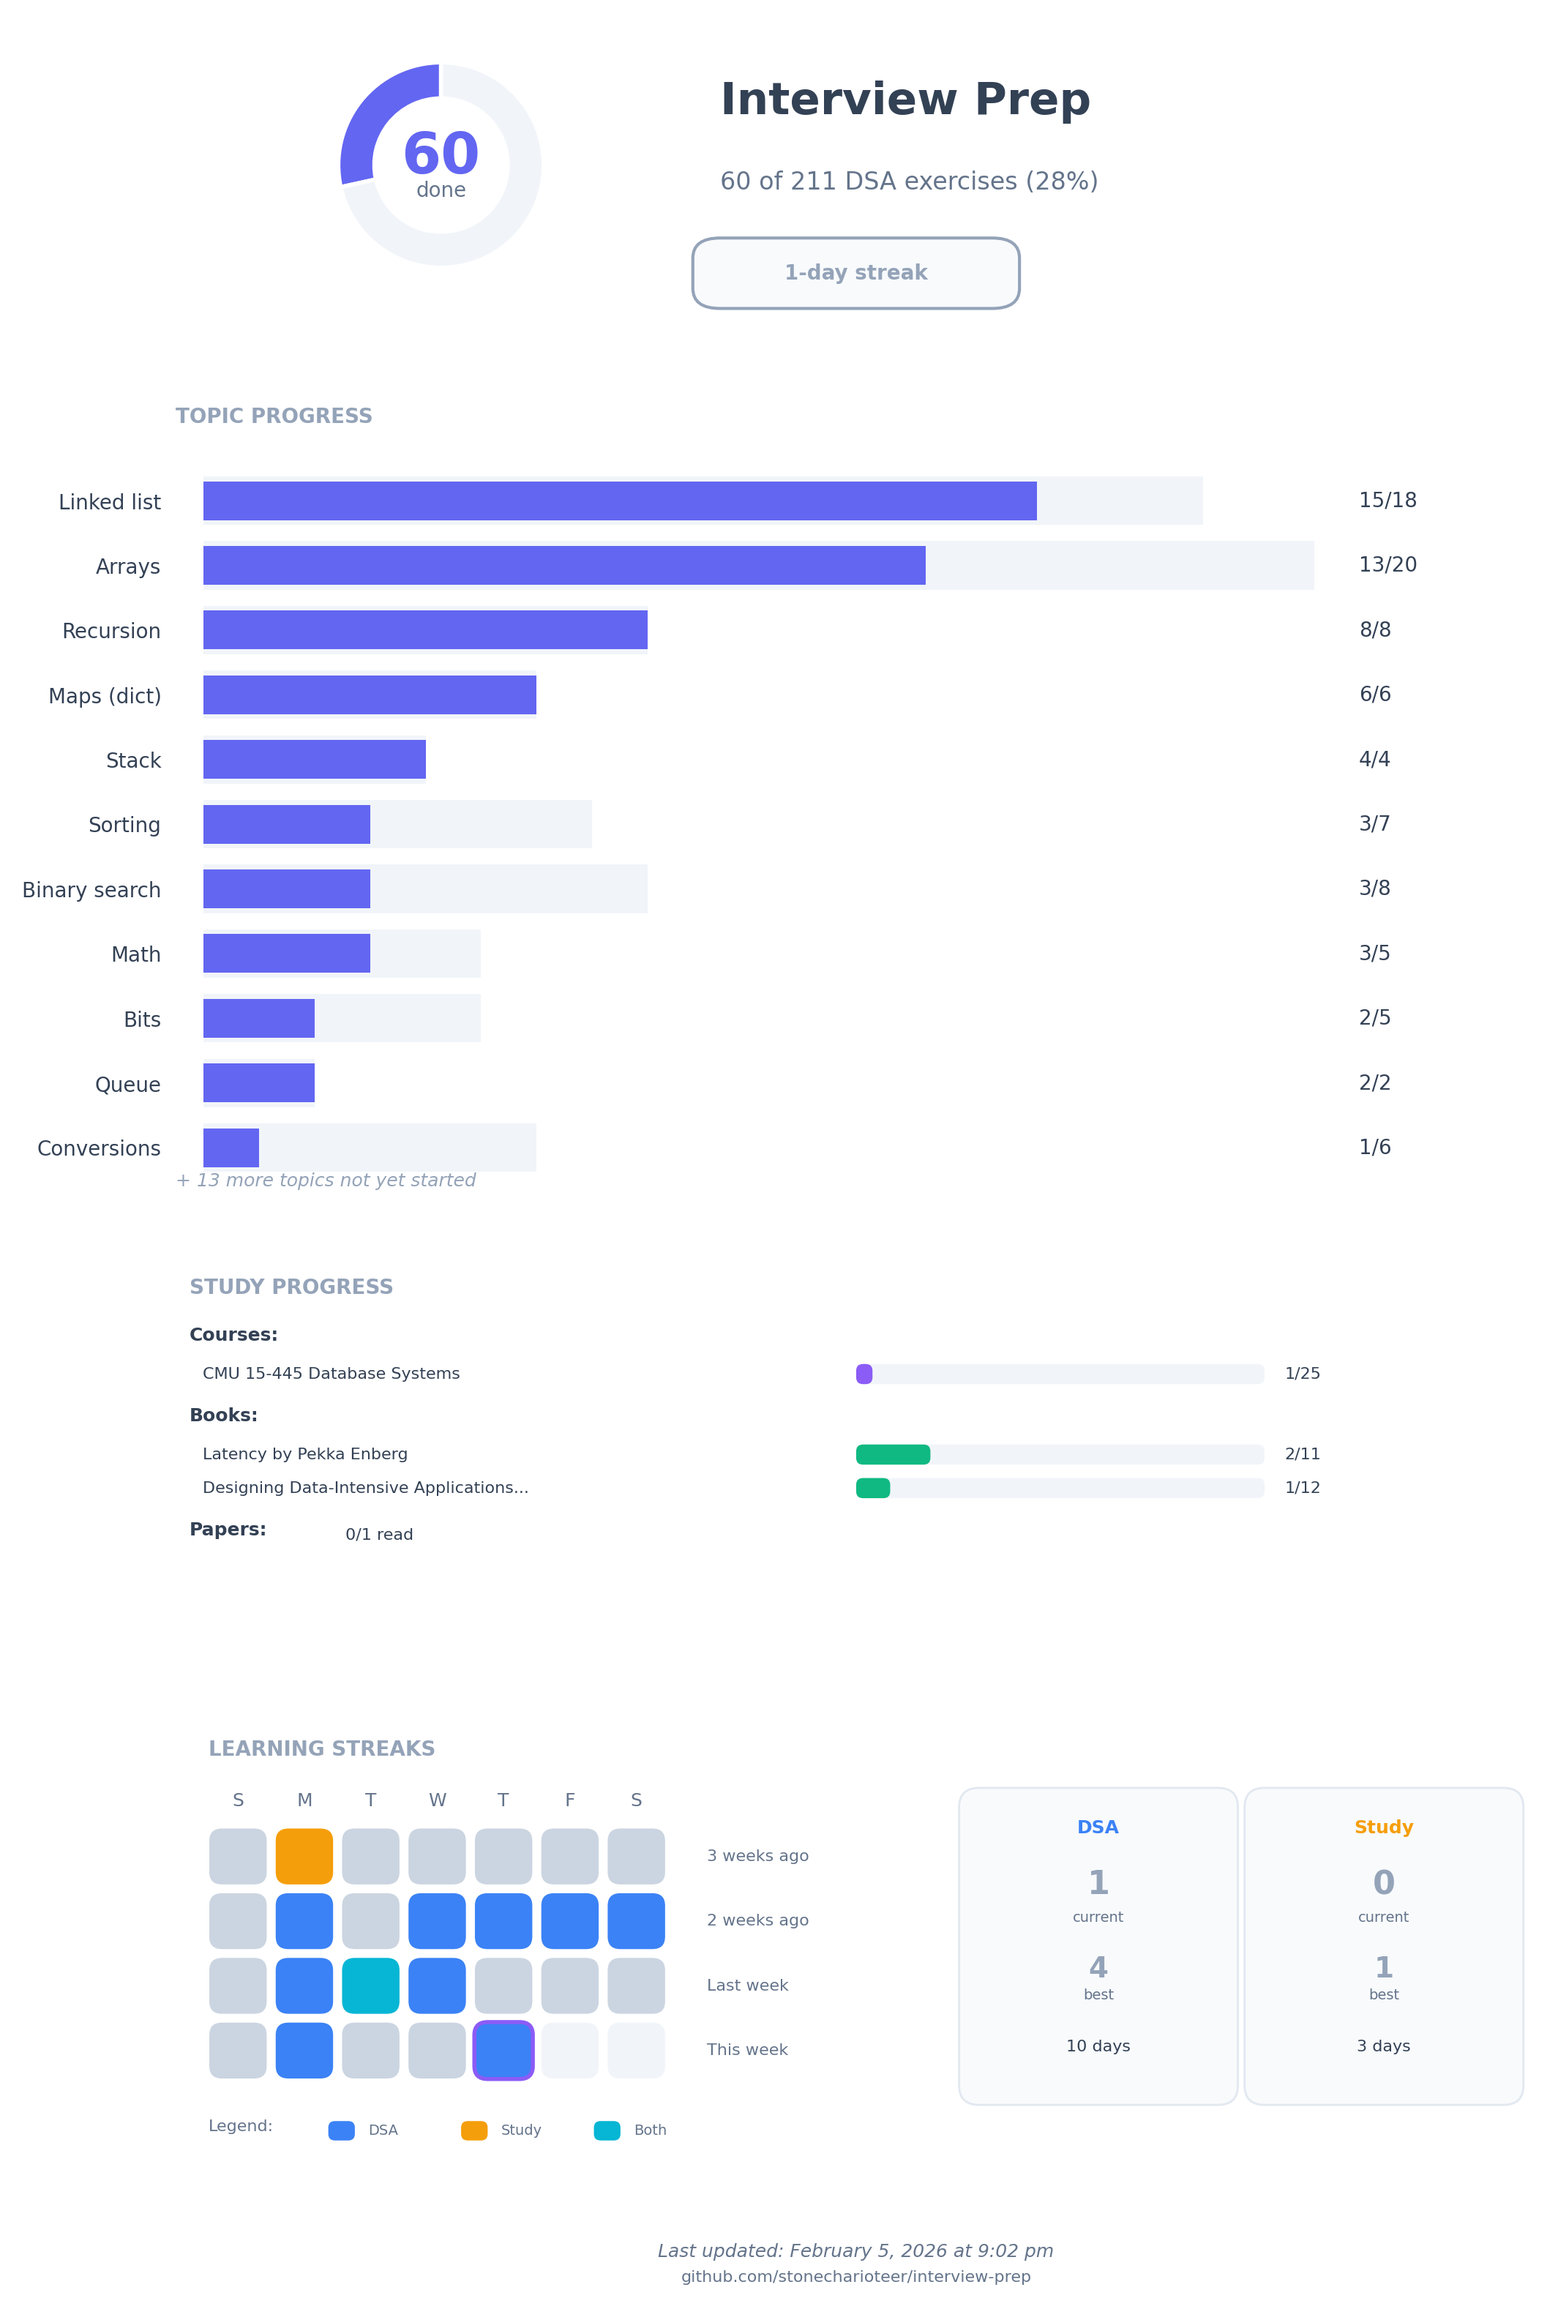
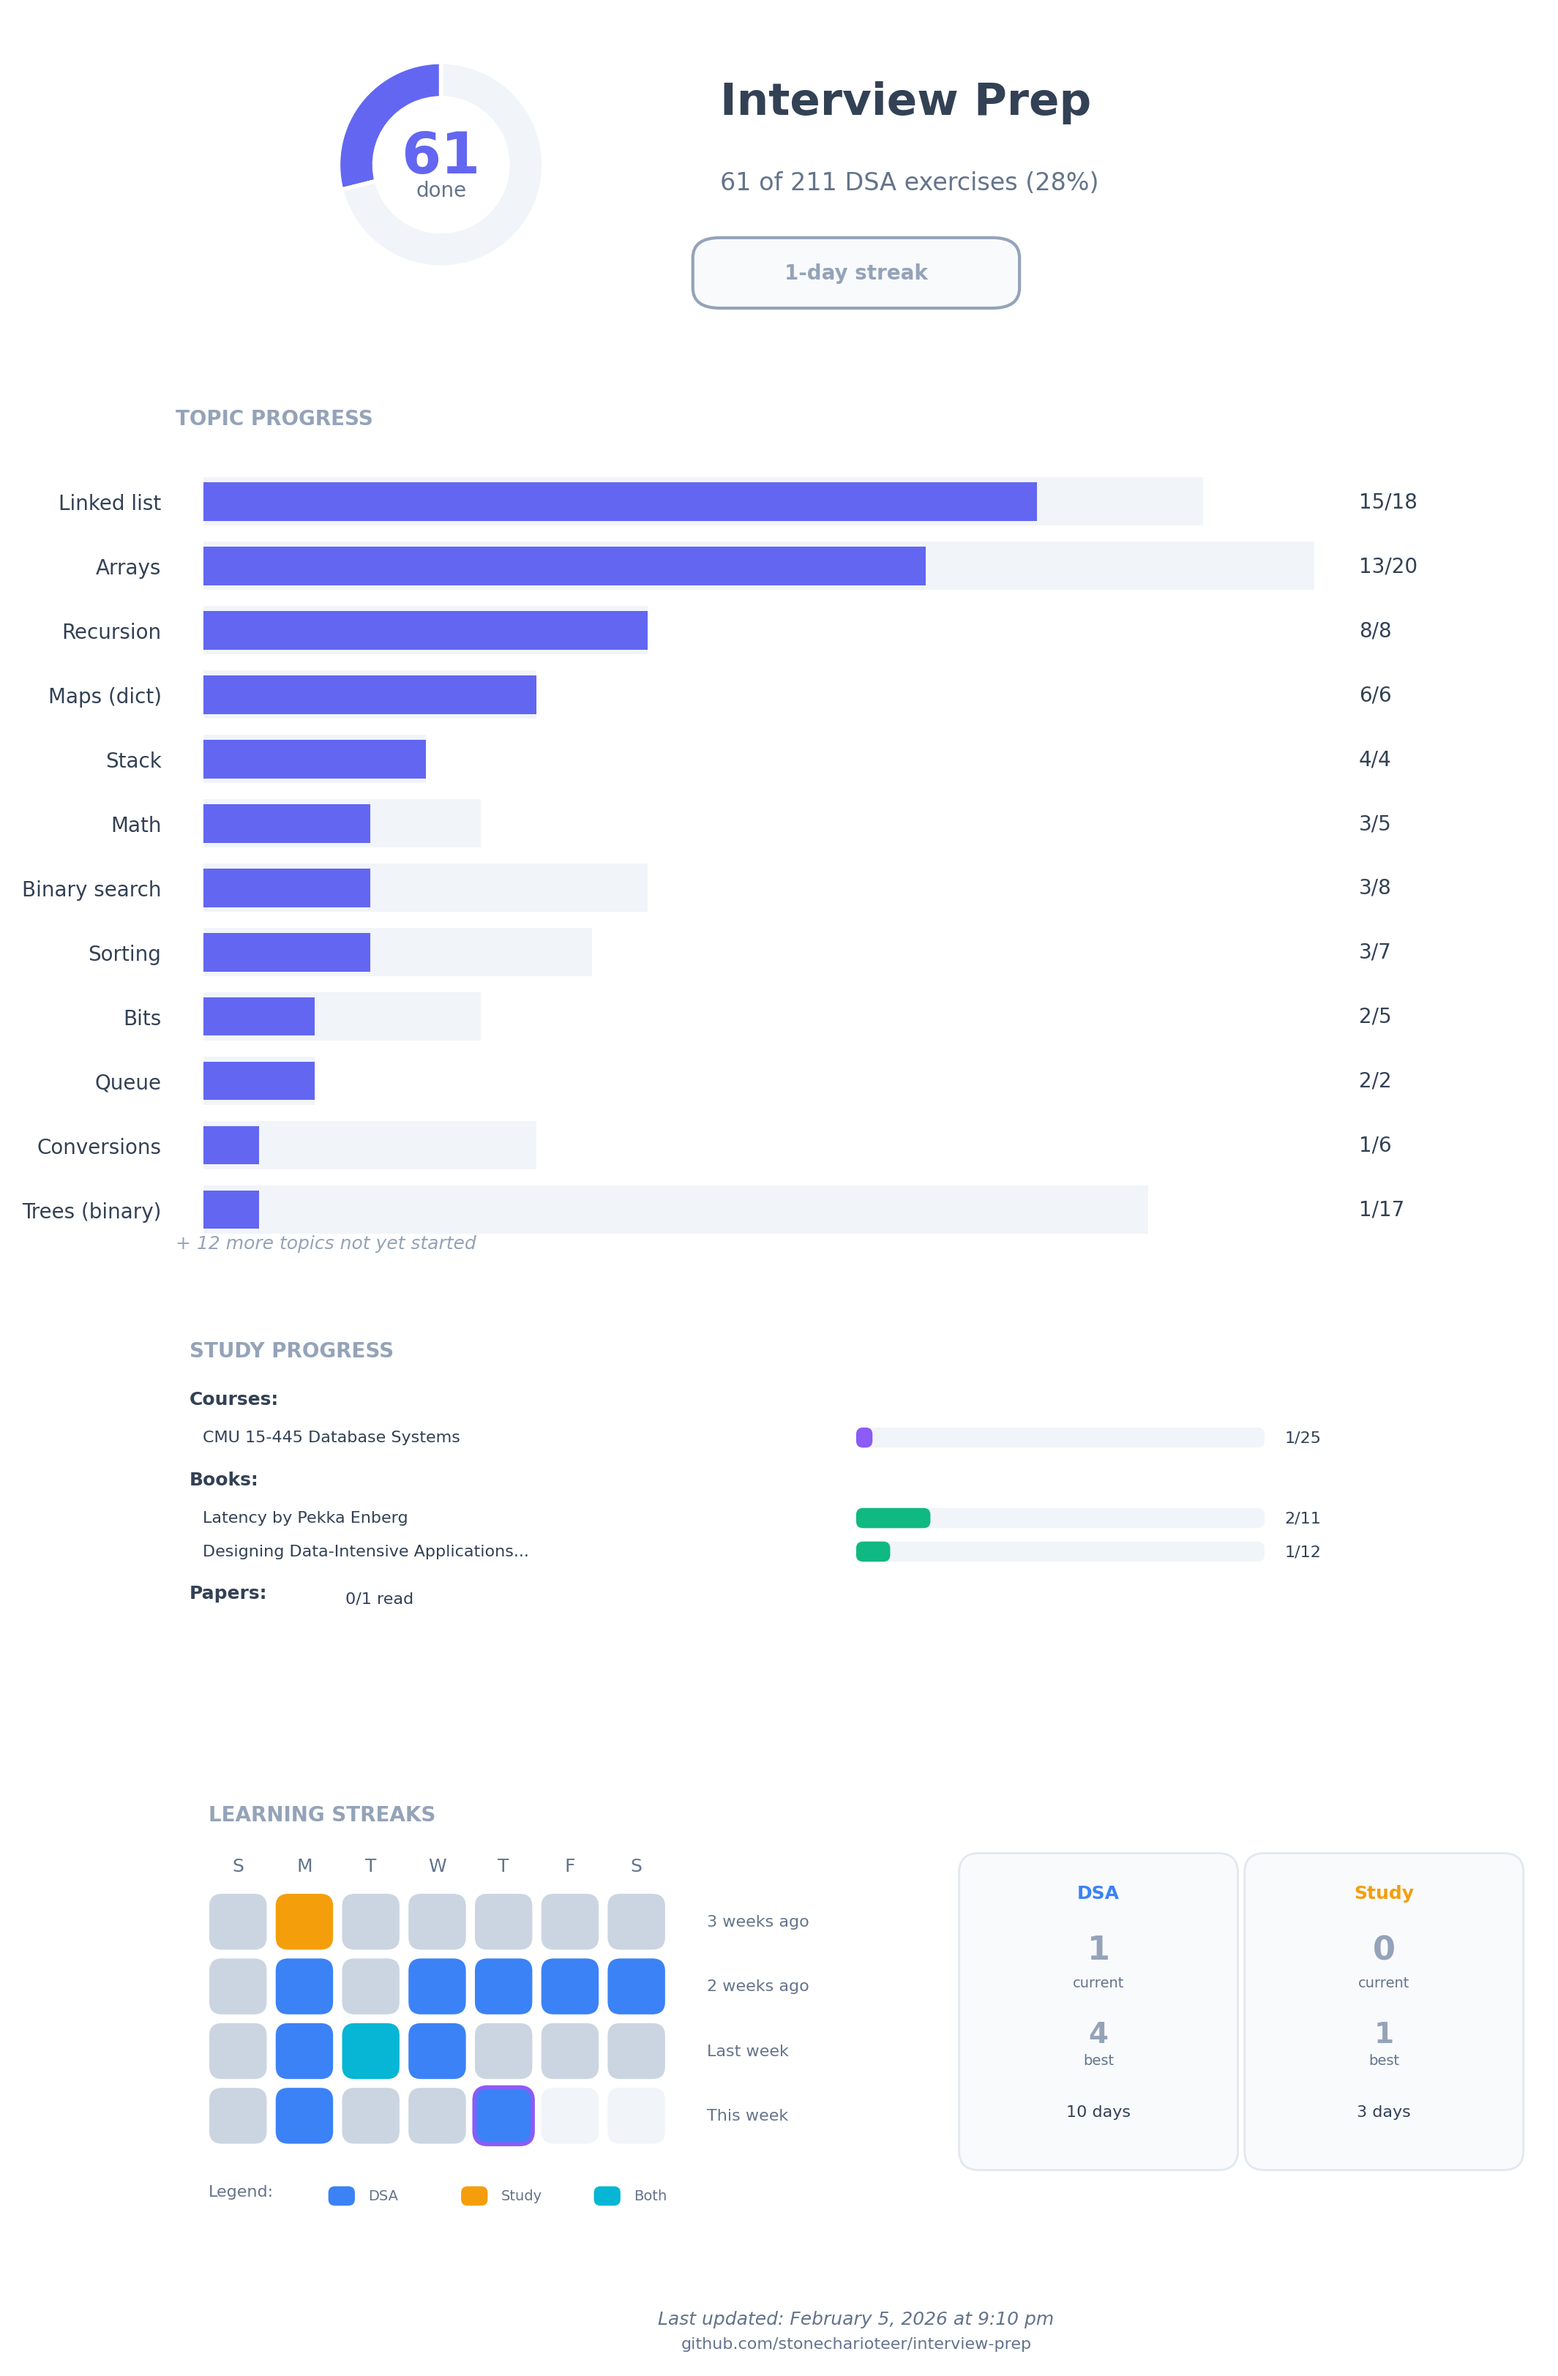
chore: update progress image

diff --git a/exercises.md b/exercises.md
@@ -1,6 +1,6 @@
 # Exercise List
 
-**Progress: 60/211 exercises completed in Python (28%)**
+**Progress: 61/211 exercises completed in Python (28%)**
 
 1. Arrays: `min.` 🐍[x] 🦀[ ] 🟨[ ]
 2. Arrays: `max.` 🐍[x] 🦀[ ] 🟨[ ]
@@ -46,7 +46,7 @@
 42. Maps (dict): `get_or_default.` 🐍[x] 🦀[ ] 🟨[ ]
 43. Math: `gcd (Euclidean algorithm).` 🐍[x] 🦀[ ] 🟨[ ]
 44. Math: `lcm (using gcd).` 🐍[x] 🦀[ ] 🟨[ ]
-45. Trees (binary): `define Node.` 🐍[ ] 🦀[ ] 🟨[ ]
+45. Trees (binary): `define Node.` 🐍[x] 🦀[ ] 🟨[ ]
 46. Arrays: `merge_sorted.` 🐍[x] 🦀[ ] 🟨[ ]
 47. Sorting: `merge_sort (divide and conquer, uses merge).` 🐍[ ] 🦀[ ] 🟨[ ]
 48. Recursion: `power(base, exp) (recursive).` 🐍[x] 🦀[ ] 🟨[ ]
